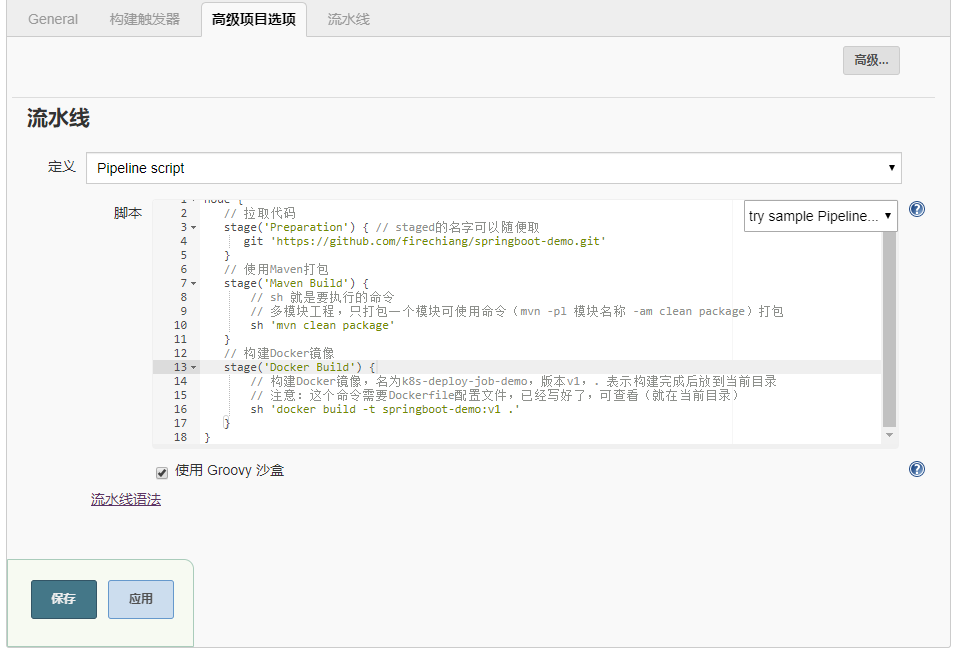
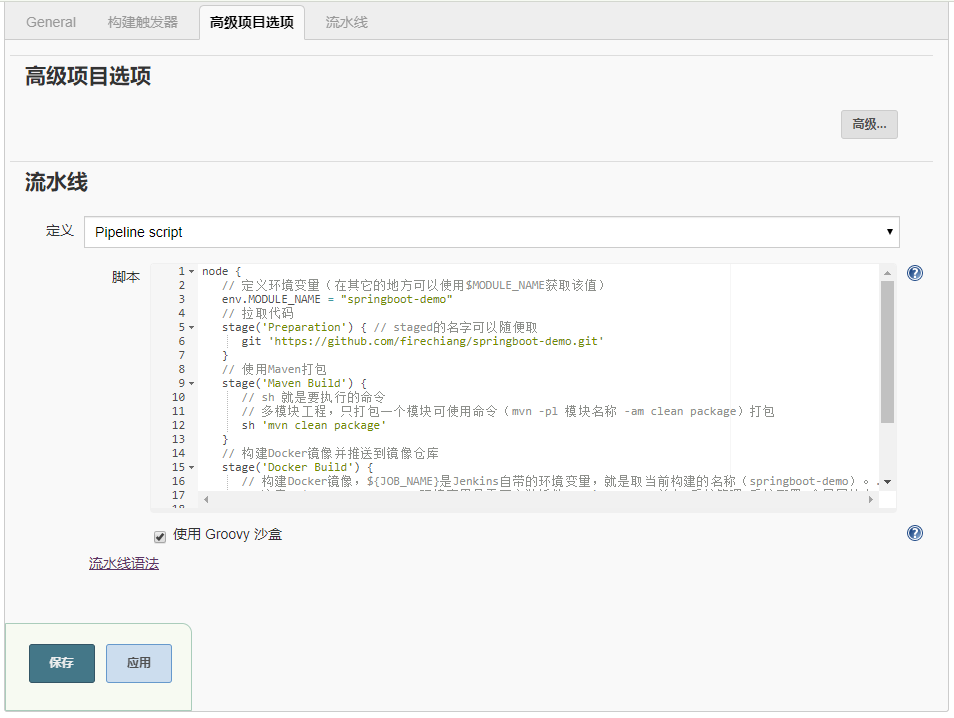
fix: 添加Jenkins插件安装

diff --git a/jenkins/docs/maven-single-project-docker.md b/jenkins/docs/maven-single-project-docker.md
@@ -4,21 +4,23 @@
 #### 二、编写脚本（注意：该机器需手动安装Maven工具）
 ```bash
 node {
+   // 定义环境变量（在其它的地方可以使用$MODULE_NAME获取该值）
+   env.MODULE_NAME = "springboot-demo"
    // 拉取代码
    stage('Preparation') { // staged的名字可以随便取
       git 'https://github.com/firechiang/springboot-demo.git'
    }
    // 使用Maven打包 
    stage('Maven Build') {
-       // sh 就是要执行的命令
-       // 多模块工程，只打包一个模块可使用命令（mvn -pl 模块名称 -am clean package）打包
-       sh 'mvn clean package'
+      // sh 就是要执行的命令
+      // 多模块工程，只打包一个模块可使用命令（mvn -pl 模块名称 -am clean package）打包
+      sh 'mvn clean package'
    }
-   // 构建Docker镜像
+   // 构建Docker镜像并推送到镜像仓库
    stage('Docker Build') {
-       // 构建Docker镜像，名为k8s-deploy-job-demo，版本v1，. 表示构建完成后放到当前目录
-       // 注意：这个命令需要Dockerfile配置文件，已经写好了，可查看（就在当前目录）
-       sh 'docker build -t springboot-demo:v1 .'
+      // 构建Docker镜像，${JOB_NAME}是Jenkins自带的环境变量，就是取当前构建的名称（springboot-demo）。. 表示Dockerfile在当前目录
+      // 注意：${BUILD_TIMESTAMP}环境变量是需要安装插件ZenTimestamp，并在 系统管理>系统配置>全局属性中，开启Date pattern for the BUILD_TIMESTAMP
+      sh 'docker build -t chiangfire/${JOB_NAME}:${BUILD_TIMESTAMP} .'
    }
 }
 ```

diff --git a/jenkins/docs/maven-single-project-dockerpush.md b/jenkins/docs/maven-single-project-dockerpush.md
@@ -16,6 +16,14 @@ node {
       // 多模块工程，只打包一个模块可使用命令（mvn -pl 模块名称 -am clean package）打包
       sh 'mvn clean package'
    }
+   // 构建Docker镜像并推送到镜像仓库
+   stage('Docker Build') {
+      // 构建Docker镜像，${JOB_NAME}是Jenkins自带的环境变量，就是取当前构建的名称（springboot-demo）。. 表示Dockerfile在当前目录
+      // 注意：${BUILD_TIMESTAMP}环境变量是需要安装插件ZenTimestamp，并在 系统管理>系统配置>全局属性中，开启Date pattern for the BUILD_TIMESTAMP
+      sh 'docker build -t chiangfire/${JOB_NAME}:${BUILD_TIMESTAMP} .'
+      // 推送镜像到仓库（注意：要事先在机器上登录镜像仓库，否则无法推送，会报没有权限的错误）
+      sh 'docker push chiangfire/${JOB_NAME}:${BUILD_TIMESTAMP}'
+   }
 }
 ```
-![image](https://github.com/firechiang/kubernetes-study/blob/master/jenkins/image/build03.PNG)
+![image](https://github.com/firechiang/kubernetes-study/blob/master/jenkins/image/build04.PNG)

diff --git a/jenkins/docs/install.md b/jenkins/docs/install.md
@@ -120,4 +120,9 @@ $ yum install git -y
 ![image](https://github.com/firechiang/kubernetes-study/blob/master/jenkins/image/setup-jenkins-05.PNG)
 #### 九、配置Java和Maven的环境变量（系统管理 > 系统配置）（注意：环境变量一定要配置，否则无法执行构建任务，会找不到命令）
 ![image](https://github.com/firechiang/kubernetes-study/blob/master/jenkins/image/setup-jenkins-06.PNG)
+#### 十、安装ZenTimestamp插件（ 系统管理>插件管理>可选插件）（注意：如果没有安装ZenTimestamp插件，BUILD_TIMESTAMP环境变量将无法使用）
+![image](https://github.com/firechiang/kubernetes-study/blob/master/jenkins/image/setup-jenkins-07.PNG)
+#### 十一、安装ZenTimestamp插件之后开启BUILD_TIMESTAMP环境变量（ 系统管理>系统配置>全局属性）（注意：如果没有开启，BUILD_TIMESTAMP环境变量也无法使用）
+![image](https://github.com/firechiang/kubernetes-study/blob/master/jenkins/image/setup-jenkins-08.PNG)
+
 

diff --git a/jenkins/README.md b/jenkins/README.md
@@ -1,8 +1,10 @@
 #### 一、[单节点搭建][1]
 #### 二、[Maven打包简单使用][2]
 #### 三、[Maven打包并构建Docker镜像简单使用][3]
+#### 四、[Maven打包构建Docker镜像并推送到镜像仓库简单使用][4]
 
 [1]: https://github.com/firechiang/kubernetes-study/blob/master/jenkins/docs/install.md
 [2]: https://github.com/firechiang/kubernetes-study/blob/master/jenkins/docs/maven-single-project-package.md
 [3]: https://github.com/firechiang/kubernetes-study/blob/master/jenkins/docs/maven-single-project-docker.md
+[4]: https://github.com/firechiang/kubernetes-study/blob/master/jenkins/docs/maven-single-project-dockerpush.md
 

diff --git a/k8s-deploy/k8s-deploy-job-demo/README.md b/k8s-deploy/k8s-deploy-job-demo/README.md
@@ -8,7 +8,7 @@ $ cd kubernetes-study/k8s-deploy/k8s-deploy-job-demo
 # Maven打包
 $ mvn clean package
 
-# 构建Docker镜像，名为k8s-deploy-job-demo，版本v1。构建完成后放到当前目录
+# 构建Docker镜像，名为k8s-deploy-job-demo，版本v1，.表示Dockerfile在当前目录
 # 注意：这个命令需要Dockerfile配置文件，已经写好了，可查看
 $ docker build -t k8s-deploy-job-demo:v1 .
 

diff --git a/k8s-deploy/k8s-deploy-dubboxml-web/README.md b/k8s-deploy/k8s-deploy-dubboxml-web/README.md
@@ -16,7 +16,7 @@ $ cd ROOT
 $ jar -xvf k8s-deploy-dubboxml-web-0.0.1-SNAPSHOT.war
 $ cd ../
 
-# 构建Docker镜像（.表示构建后的文件放到当前目录）
+# 构建Docker镜像（.表示Dockerfile在当前目录）
 $ docker build -t k8s-deploy-dubboxml-web:0.0.1 .
 
 # 为镜像打上tag
